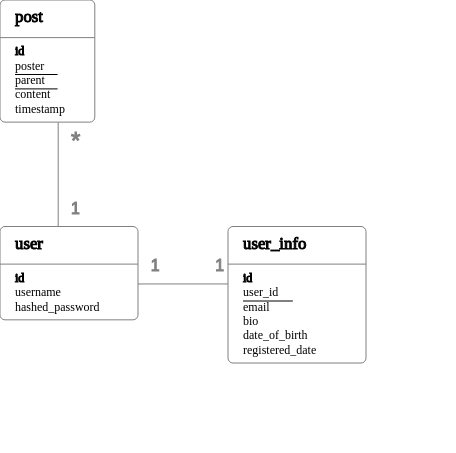
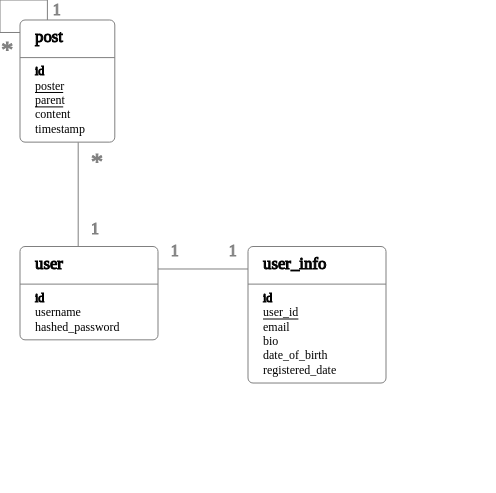
Converted relationships into class. Added support for self-referential relationships.

Changed region(s): [[0.0, 0.4945, 0.8289, 0.8035], [0.0, 0.0, 0.2456, 0.4945]]

diff --git a/src/drawer/diagram.js b/src/drawer/diagram.js
@@ -4,6 +4,7 @@ const paramUtils = require('../utils/param_utils.js');
 const geometryUtils = require('../utils/geometry_utils.js');
 const DiagramTable = require('./diagramTable.js');
 const DiagramLayout = require('./diagramLayout.js');
+const DiagramRelationship = require('./diagramRelationship.js');
 
 const Diagram = function(parser, params){
   const _self = this;
@@ -18,7 +19,7 @@ const Diagram = function(parser, params){
     _properties = paramUtils.resolveParams(params, {
       height: "auto",
       width: "auto",
-      padding: 15,
+      padding: 40,
       fontOptions: {
         font: 'Andale Mono',
         size: 12
@@ -62,7 +63,11 @@ const Diagram = function(parser, params){
     parser.tables.forEach((table) => {
       _self.tables.push(new DiagramTable(table, parser.relationships, _properties.tableOptions, _labelFonts));
     });
-    _self.connections = parser.relationships;
+    parser.relationships.forEach((connection) => {
+      const table1 = _self.findDiagramTableByParsedTable(connection.table1);
+      const table2 = _self.findDiagramTableByParsedTable(connection.table2);
+      _self.connections.push(new DiagramRelationship(connection, table1, table2));
+    });
     _layout = new DiagramLayout(_self.tables, {layoutDefinition: parser.layoutDefinition});
   };
 
@@ -73,7 +78,7 @@ const Diagram = function(parser, params){
     draw(_layout, _properties, _self.svg);
   };
 
-  const calculateMaxTableDimensions = (tableOptions, padding) => {
+  const calculateMaxTableDimensions = (tableOptions) => {
     const maxTableDimensions = {
       width: 0,
       height: 0
@@ -90,13 +95,13 @@ const Diagram = function(parser, params){
     const drawing = svg.newInstance();
     const maxTableDimensions = calculateMaxTableDimensions(props.tableOptions,props.padding);
     const layoutDimensions = layout.calculateDimensions(maxTableDimensions);
-    drawing.width(layoutDimensions.width).height(layoutDimensions.height);
+    drawing.width(layoutDimensions.width+props.padding).height(layoutDimensions.height+props.padding);
 
     return drawing;
   }
 
   const calculatePositions = (layout, props, drawing) => {
-    const maxTableDimensions = calculateMaxTableDimensions(props.tableOptions,props.padding);
+    const maxTableDimensions = calculateMaxTableDimensions(props.tableOptions);
     const matrix = layout.toMatrix();
 
     matrix.forEach((row, yi) => {
@@ -104,7 +109,7 @@ const Diagram = function(parser, params){
         if(!!table){
           const x = xi*maxTableDimensions.width;
           const y = yi*maxTableDimensions.height;
-          table.setPosition(x, y);
+          table.setPosition((props.padding/2) + x, (props.padding/2) + y);
         }
       });
     });
@@ -131,73 +136,14 @@ const Diagram = function(parser, params){
     });
   }
 
-  const drawConnectors = (layout, drawing) => {
+  const drawConnectors = (drawing) => {
     _self.connections.forEach((connection) => {
-      const table1 = _self.findDiagramTableByParsedTable(connection.table1);
-      const table2 = _self.findDiagramTableByParsedTable(connection.table2);
-      if(!!table1 && !!table2){
-        if(table1 !== table2){
-          const t1pos = table1.getClosestPerimeterCoordinate(table2.getLeveledCentrePosition());
-          const t2pos = table2.getClosestPerimeterCoordinate(table1.getLeveledCentrePosition());
-
-          const slope = geometryUtils.slope(t1pos, t2pos);
-          if(geometryUtils.orientation.isMostlyDiagonal(t1pos, t2pos, 0.8)){
-            //This is left here for debugging purposes.
-          }
-          else if(geometryUtils.orientation.isMostlyVertical(t1pos, t2pos, 2)){
-            const xAverage = (t1pos.x + t2pos.x)/2;
-            t1pos.x = xAverage;
-            t2pos.x = xAverage;
-          }
-          else if(geometryUtils.orientation.isMostlyHorizontal(t1pos, t2pos, 0.5)){
-            const yAverage = (t1pos.y + t2pos.y)/2;
-            t1pos.y = yAverage;
-            t2pos.y = yAverage;
-          }
-
-          const textSize = 16;
-          const t1size = connection.t1Cardinality == "*" ? textSize*1.5: textSize;
-          const t2size = connection.t2Cardinality == "*" ? textSize*1.5 : textSize;
-
-          const adjustAmount = textSize*0.8;
-          const asteriskAdjustment = textSize/2;
-          const x1Adjust = t2pos.x >= t1pos.x ? adjustAmount : -1 * adjustAmount;
-          const y1Adjust = (t2pos.y > t1pos.y ? adjustAmount*1.5 : -1 * adjustAmount) + (connection.t1Cardinality == "*" ? asteriskAdjustment : 0);
-          const x2Adjust = t1pos.x >= t2pos.x ? adjustAmount : -1 * adjustAmount;
-          const y2Adjust = (t1pos.y > t2pos.y ? adjustAmount*1.5 : -1 * adjustAmount) + (connection.t2Cardinality == "*" ? asteriskAdjustment : 0);
-
-          drawing.text({
-            x: t1pos.x + x1Adjust,
-            y: t1pos.y + y1Adjust,
-            'font-family': 'helvetica',
-            'font-size': t1size,
-            stroke : "gray",
-            fill: "gray"
-          }, connection.t1Cardinality);
-
-          drawing.text({
-            x: t2pos.x + x2Adjust,
-            y: t2pos.y + y2Adjust,
-            'font-family': 'helvetica',
-            'font-size': t2size,
-            stroke : "gray",
-            fill: "gray"
-          }, connection.t2Cardinality);
-
-          drawing.line({
-            x1: t1pos.x,
-            y1: t1pos.y,
-            x2: t2pos.x,
-            y2: t2pos.y,
-            stroke:"gray"
-          });
-        }
-      }
+      connection.draw(drawing);
     });
   }
 
   const draw = (layout, props, drawing) => {
-    drawConnectors(layout, drawing);
+    drawConnectors(drawing);
     drawTables(layout, props, drawing);
   }
 

diff --git a/src/drawer/diagramRelationship.js b/src/drawer/diagramRelationship.js
@@ -1,0 +1,133 @@
+const pixelDimensions = require('../utils/dimension_utils.js');
+const paramUtils = require('../utils/param_utils.js');
+const geometryUtils = require('../utils/geometry_utils.js');
+const DiagramColumn = require('./diagramColumn.js');
+
+const DiagramRelationship = function(relationship, table1, table2) {
+  const _self = this;
+  let _t1 = null;
+  let _t2 = null;
+  _self.connection = null;
+  _self.relationship = null;
+
+  const resolveCoordinates = (t1pos, t2pos, adjust) => {
+    const slope = geometryUtils.slope(t1pos, t2pos);
+
+    if(!!adjust){
+      if (geometryUtils.orientation.isMostlyDiagonal(t1pos, t2pos, 0.8)) {
+        //This is left here for debugging purposes.
+      }
+      else if (geometryUtils.orientation.isMostlyVertical(t1pos, t2pos, 2)) {
+        const xAverage = (t1pos.x + t2pos.x) / 2;
+        t1pos.x = xAverage;
+        t2pos.x = xAverage;
+      }
+      else if (geometryUtils.orientation.isMostlyHorizontal(t1pos, t2pos, 0.5)) {
+        const yAverage = (t1pos.y + t2pos.y) / 2;
+        t1pos.y = yAverage;
+        t2pos.y = yAverage;
+      }
+    }
+
+    return {
+      t1: t1pos,
+      t2: t2pos
+    }
+  };
+
+  const calculateTextProperties = (cardinality, t1pos, t2pos) => {
+    const textSize = 16;
+    const adjustAmount = textSize * 0.8;
+    const asteriskAdjustment = textSize / 2;
+    return {
+      x: t1pos.x + (t2pos.x >= t1pos.x ? adjustAmount : -1.5 * adjustAmount),
+      y: t1pos.y + ((t2pos.y > t1pos.y ? adjustAmount * 1.5 : -1 * adjustAmount) + (cardinality == "*" ? asteriskAdjustment : 0)),
+      size: cardinality == "*" ? textSize * 1.5 : textSize
+    }
+  };
+
+  const init = (relationship, table1, table2) => {
+    _self.connection = relationship;
+    _t1 = table1;
+    _t2 = table2;
+  };
+
+  _self.draw = (drawing) => {
+    if (!!_t1 && !!_t2) {
+      const t1RawPos = _t1.getLeveledCentrePosition();
+      const t2RawPos = _t2.getLeveledCentrePosition();
+      if (_self.isSelfReferential()) {
+        t1RawPos.x += -1000;
+        t2RawPos.y += -1000;
+      }
+      const coordinates = resolveCoordinates(_t1.getClosestPerimeterCoordinate(t2RawPos), _t2.getClosestPerimeterCoordinate(t1RawPos), !_self.isSelfReferential());
+      const t1pos = _self.isSelfReferential() ? {x: coordinates.t1.x - 20, y:coordinates.t1.y} : coordinates.t1;
+      const t2pos = _self.isSelfReferential() ? {x: coordinates.t2.x, y:coordinates.t2.y - 10} : coordinates.t2;
+      const t1Text = calculateTextProperties(_self.connection.t1Cardinality, t1pos, t2pos);
+      const t2Text = calculateTextProperties(_self.connection.t2Cardinality, t2pos, t1pos);
+
+      drawing.text({
+        x: t1Text.x + (_self.isSelfReferential() ? -27 : 0),
+        y: t1Text.y + (_self.isSelfReferential() ? 10 : 0),
+        'font-family': 'Andale Mono',
+        'font-size': t1Text.size,
+        stroke: "gray",
+        fill: "gray"
+      }, _self.connection.t1Cardinality);
+
+      drawing.text({
+        x: t2Text.x + (_self.isSelfReferential() ? 20 : 0),
+        y: t2Text.y + (_self.isSelfReferential() ? -5 : 0),
+        'font-family': 'Andale Mono',
+        'font-size': t2Text.size,
+        stroke: "gray",
+        fill: "gray"
+      }, _self.connection.t2Cardinality);
+
+      if (_self.isSelfReferential()) {
+        drawing.line({
+          x1: t2pos.x,
+          y1: t2pos.y,
+          x2: t2pos.x - 20,
+          y2: t2pos.y,
+          stroke: "gray"
+        }).line({
+          x1: t2pos.x - 20,
+          y1: t2pos.y,
+          x2: t2pos.x - 20,
+          y2: t1pos.y - 20,
+          stroke: "gray"
+        }).line({
+          x1: t2pos.x - 20,
+          y1: t1pos.y - 20,
+          x2: t1pos.x,
+          y2: t1pos.y - 20,
+          stroke: "gray"
+        }).line({
+          x1: t1pos.x,
+          y1: t1pos.y - 20,
+          x2: t1pos.x,
+          y2: t1pos.y,
+          stroke: "gray"
+        });
+      }
+      else{
+        drawing.line({
+          x1: t1pos.x,
+          y1: t1pos.y,
+          x2: t2pos.x,
+          y2: t2pos.y,
+          stroke: "gray"
+        });
+      }
+    }
+  }
+
+  _self.isSelfReferential = () => {
+    return _t1 === _t2;
+  }
+
+  init(relationship, table1, table2);
+};
+
+module.exports = DiagramRelationship;

diff --git a/src/drawer/diagramColumn.js b/src/drawer/diagramColumn.js
@@ -26,9 +26,9 @@ const DiagramColumn = function(parsedColumn, table, fontOptions){
     if(_font.underlined){
       drawing.line({
         x1: x + padding,
-        y1: y + (_table.dimensions.columnLabelHeight/3),
-        x2: x + pixelDimensions(_self.name + "  ", _font).width,
-        y2: y + (_table.dimensions.columnLabelHeight/3),
+        y1: y + (_table.dimensions.columnLabelHeight/3) - 2,
+        x2: x + pixelDimensions(_self.name, _font).width,
+        y2: y + (_table.dimensions.columnLabelHeight/3) - 2,
         stroke:"black"
       });
     }

diff --git a/README.md b/README.md
@@ -4,7 +4,7 @@ Currently **Work In Progress** but I guess it's ok to use.
 ## To do:
   - [x] Draw tables
   - [x] Draw relationships
-  - [ ] Draw self-referential relationships
+  - [x] Draw self-referential relationships
   - [ ] Support relationship declarations via table aliases
   - [ ] Support colours
   - [x] Support custom positions
